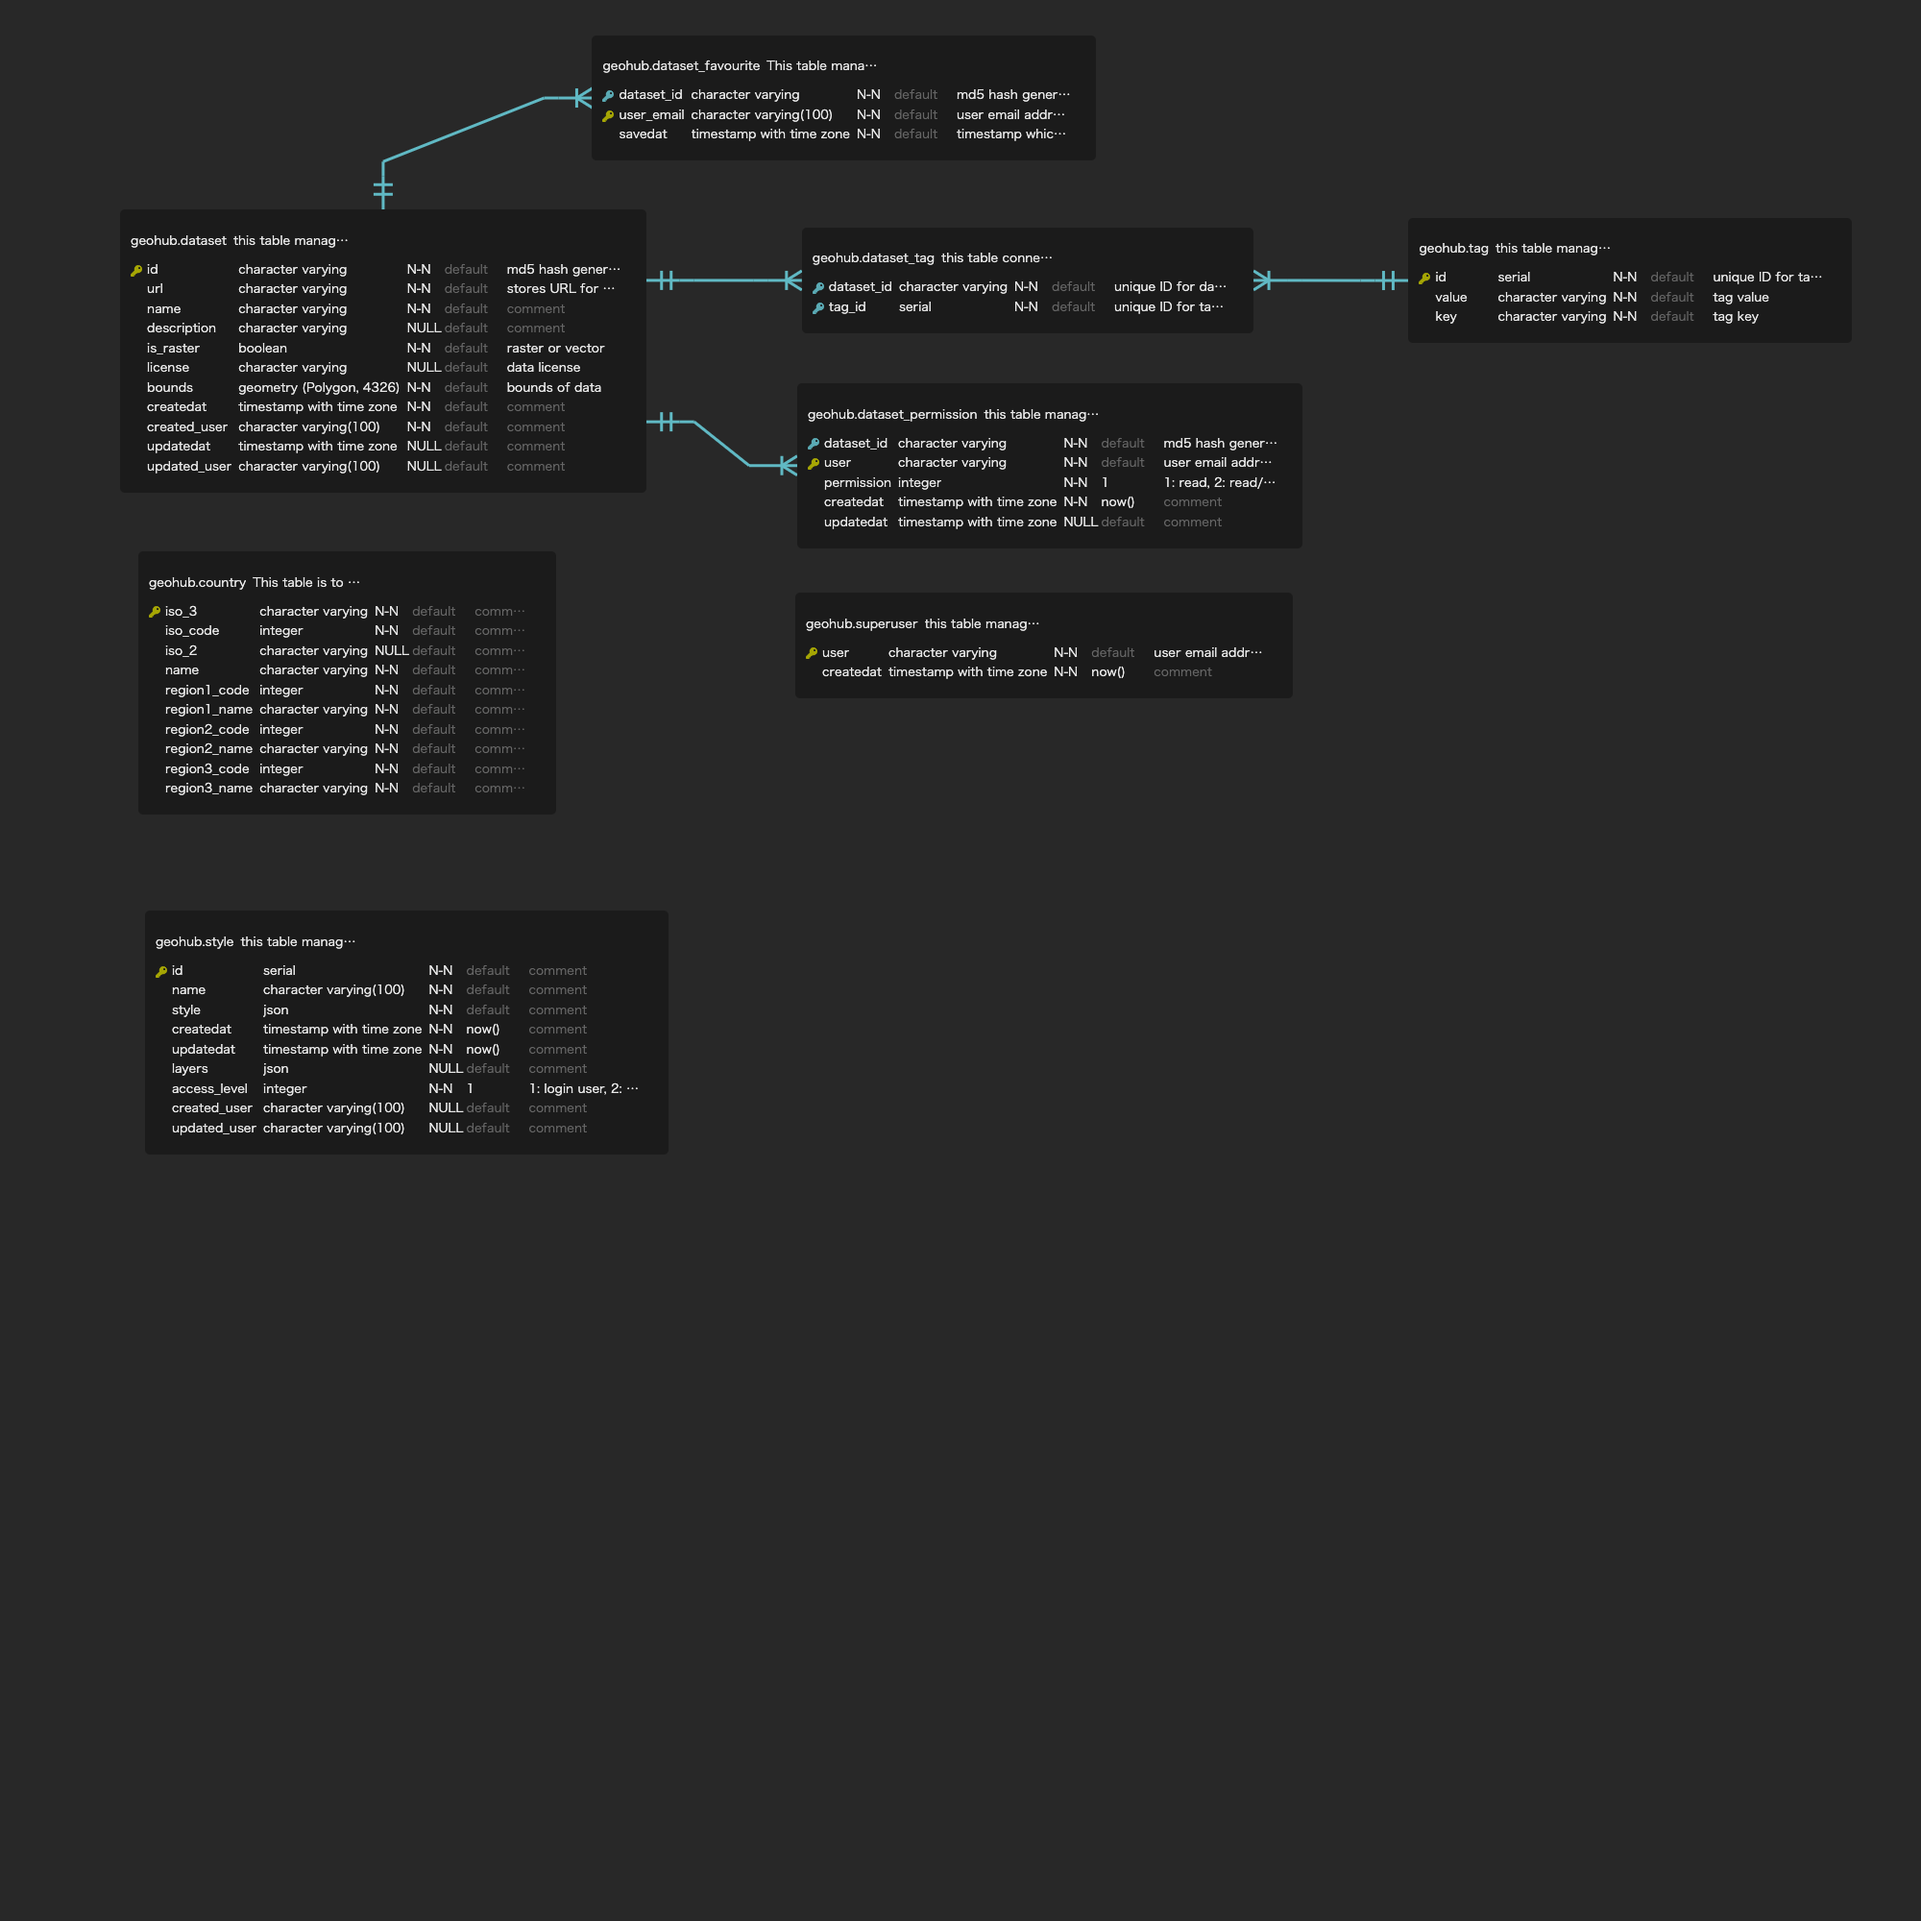
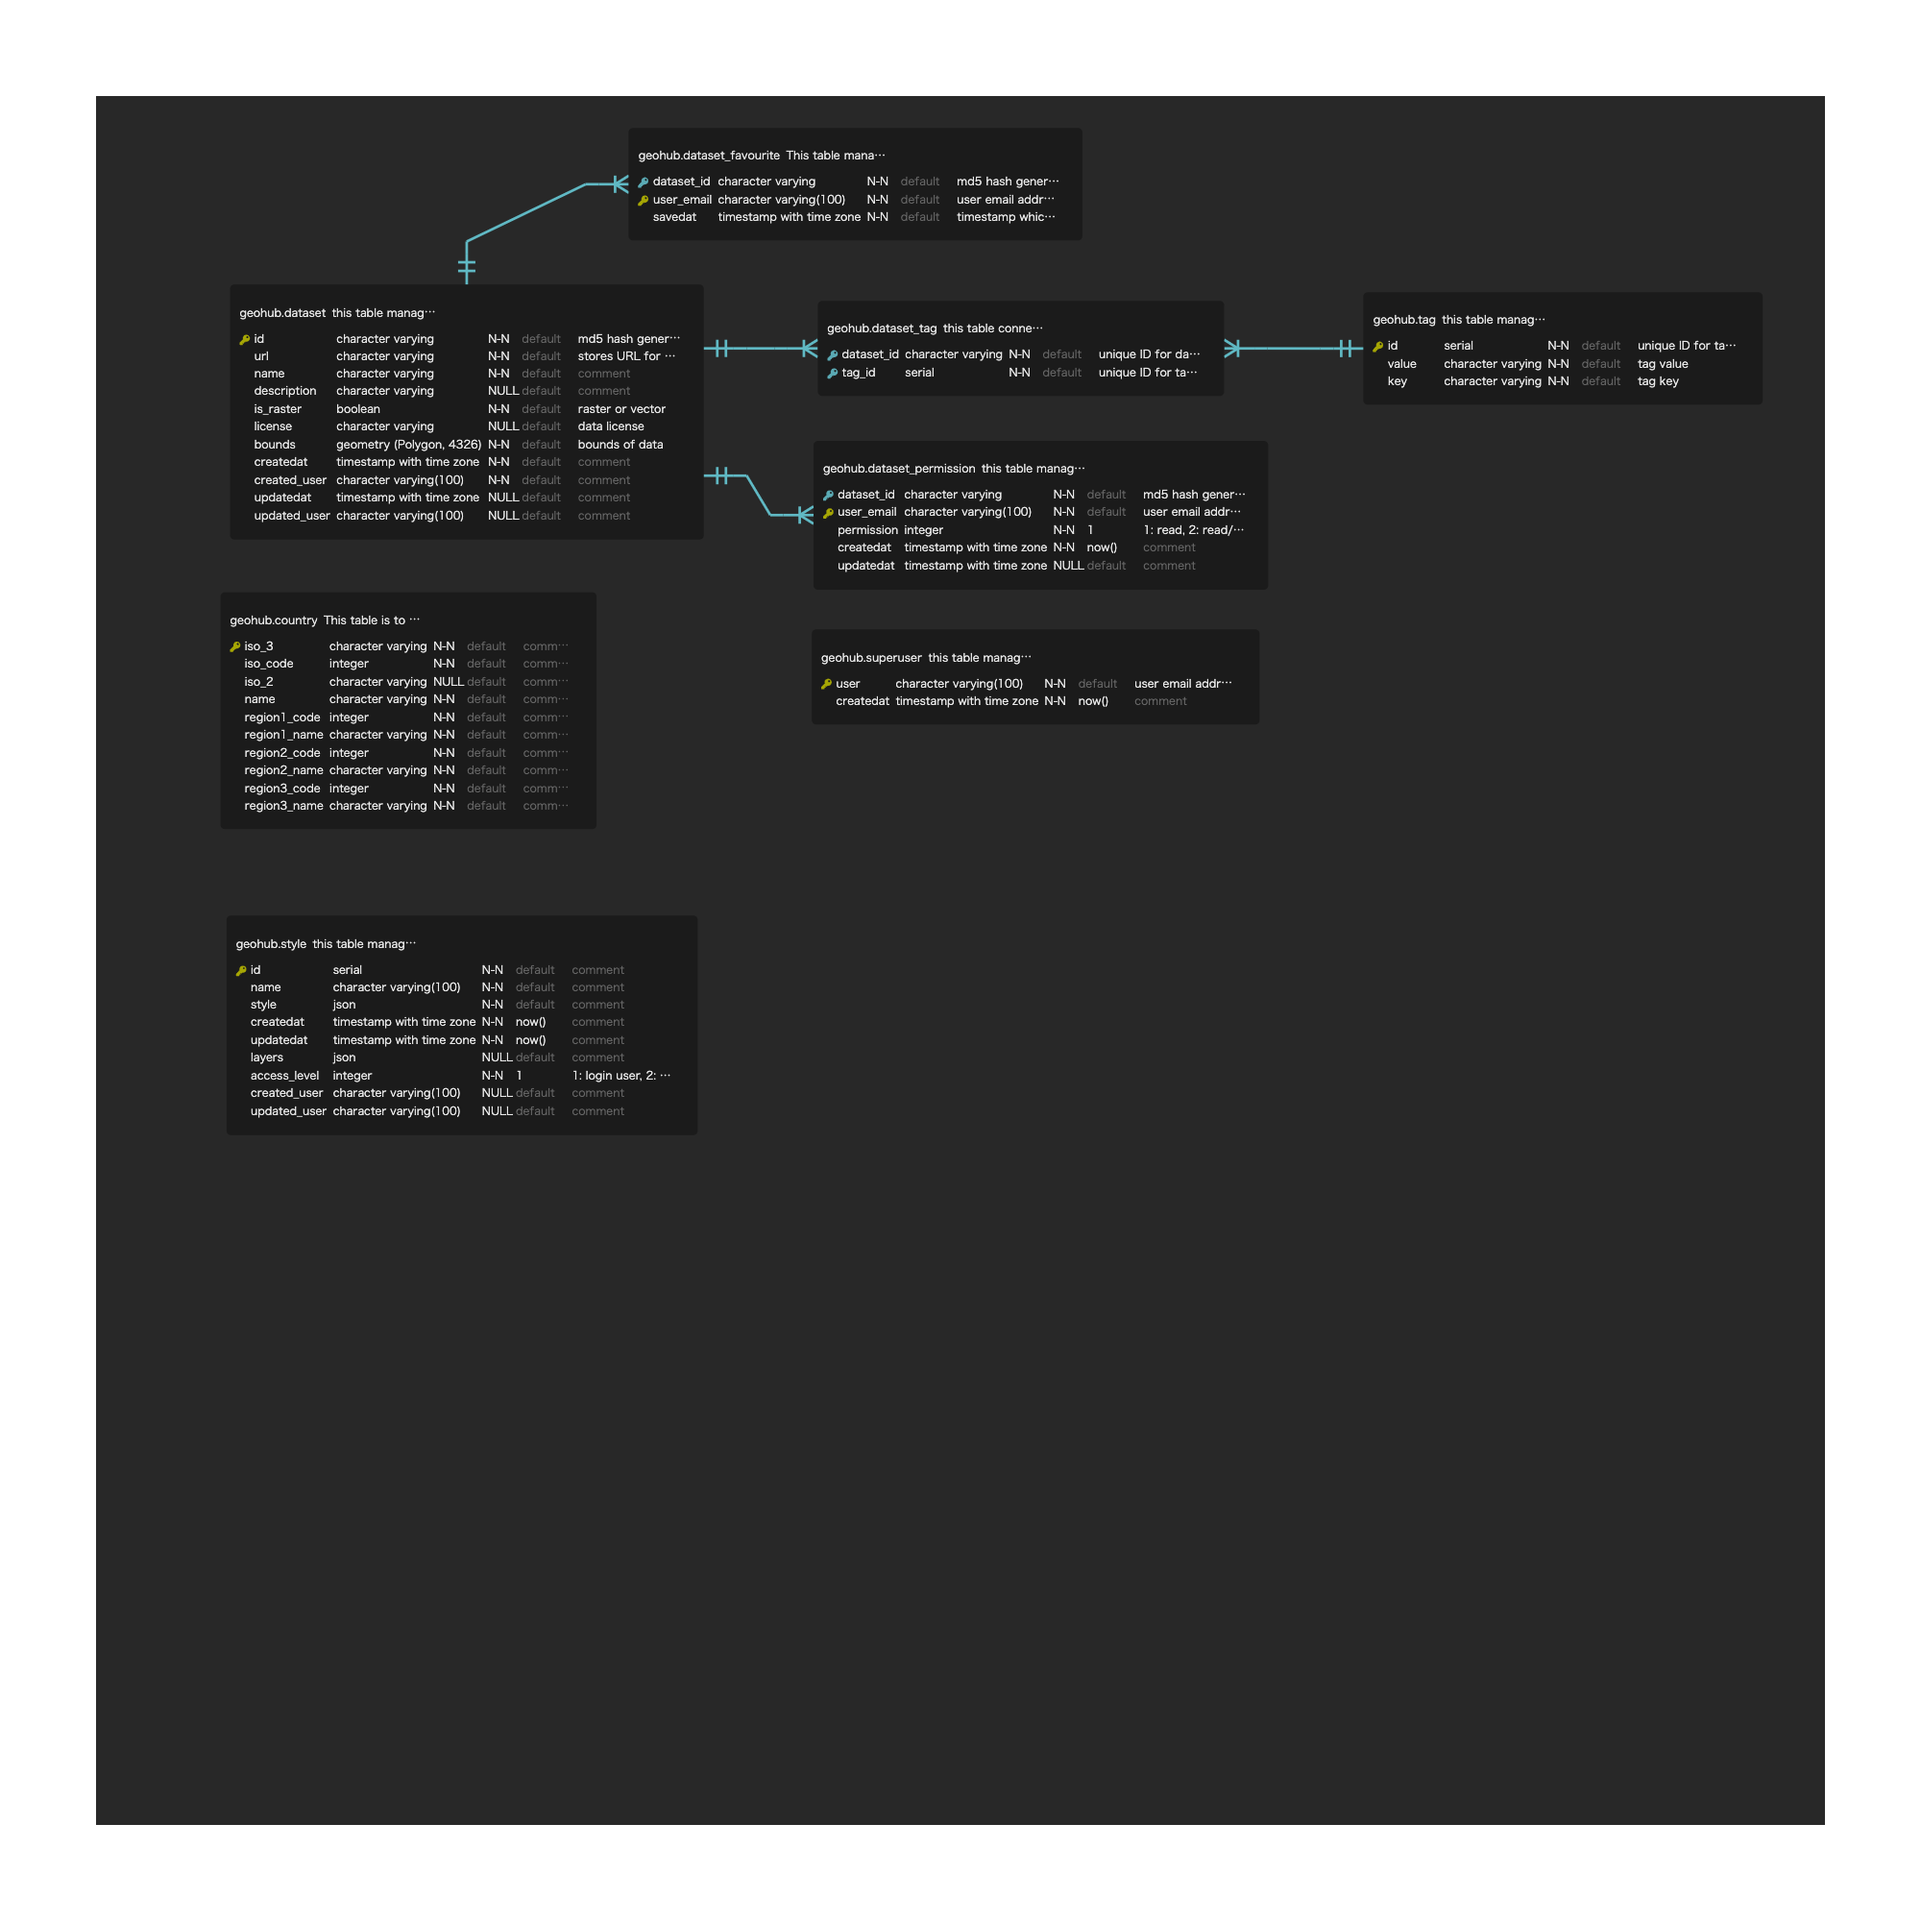
feat: add mydata=true option in /datasets api

diff --git a/sites/geohub/src/routes/api/datasets/+server.ts b/sites/geohub/src/routes/api/datasets/+server.ts
@@ -4,6 +4,7 @@ import type { DatasetFeatureCollection, Pages, StacLink, Tag } from '$lib/types'
 import { createDatasetSearchWhereExpression } from '$lib/server/helpers/createDatasetSearchWhereExpression'
 import { generateAzureBlobSasToken, pageNumber } from '$lib/server/helpers'
 import DatabaseManager from '$lib/server/DatabaseManager'
+import { Permission } from '$lib/constants'
 
 /**
  * Datasets search API
@@ -98,6 +99,15 @@ export const GET: RequestHandler = async ({ url, locals }) => {
       no_stars as (
         SELECT dataset_id, count(*) as no_stars FROM geohub.dataset_favourite GROUP BY dataset_id
       )
+      ${
+        user_email
+          ? `
+      ,permission as (
+        SELECT dataset_id, permission FROM geohub.dataset_permission 
+        WHERE user_email='${user_email}'
+      )`
+          : ''
+      }
       SELECT row_to_json(featurecollection) AS geojson 
       FROM (
         SELECT
@@ -124,6 +134,11 @@ export const GET: RequestHandler = async ({ url, locals }) => {
             CASE WHEN z.no_stars is not null THEN z.no_stars ELSE 0 END as no_stars,
             ${
               user_email
+                ? `CASE WHEN p.permission is not null THEN p.permission ELSE ${Permission.READ} END`
+                : `${Permission.READ}`
+            } as permission,
+            ${
+              user_email
                 ? `
               CASE
                 WHEN (
@@ -142,6 +157,14 @@ export const GET: RequestHandler = async ({ url, locals }) => {
           ON x.id = y.id
           LEFT JOIN no_stars z
           ON x.id = z.dataset_id
+          ${
+            user_email
+              ? `
+          LEFT JOIN permission p
+          ON x.id = p.dataset_id
+          `
+              : ''
+          }
         ${whereExpressesion.sql}
         ORDER BY
           ${sortByColumn} ${SortOrder} NULLS ${SortOrder === 'asc' ? 'FIRST' : 'LAST'}

diff --git a/sites/geohub/src/lib/server/helpers/getDatasetById.ts b/sites/geohub/src/lib/server/helpers/getDatasetById.ts
@@ -2,6 +2,7 @@ import { generateAzureBlobSasToken } from '$lib/server/helpers'
 import type { DatasetFeature, Tag } from '$lib/types'
 import DatabaseManager from '$lib/server/DatabaseManager'
 import type { PoolClient } from 'pg'
+import { Permission } from '$lib/constants'
 
 export const getDatasetById = async (client: PoolClient, id: string, user_email?: string) => {
   const sql = {
@@ -27,6 +28,15 @@ export const getDatasetById = async (client: PoolClient, id: string, user_email?
         no_stars as (
           SELECT dataset_id, count(*) as no_stars FROM geohub.dataset_favourite GROUP BY dataset_id
         )
+        ${
+          user_email
+            ? `
+        ,permission as (
+          SELECT dataset_id, permission FROM geohub.dataset_permission 
+          WHERE user_email='${user_email}'
+        )`
+            : ''
+        }
         SELECT row_to_json(feature) AS feature 
         FROM (
             SELECT
@@ -49,6 +59,11 @@ export const getDatasetById = async (client: PoolClient, id: string, user_email?
               CASE WHEN z.no_stars is not null THEN z.no_stars ELSE 0 END as no_stars,
               ${
                 user_email
+                  ? `CASE WHEN p.permission is not null THEN p.permission ELSE ${Permission.READ} END`
+                  : `${Permission.READ}`
+              } as permission,
+              ${
+                user_email
                   ? `
                 CASE
                   WHEN (
@@ -67,6 +82,7 @@ export const getDatasetById = async (client: PoolClient, id: string, user_email?
             ON x.id = y.id
             LEFT JOIN no_stars z
             ON x.id = z.dataset_id
+            ${user_email ? `LEFT JOIN permission p ON x.id = p.dataset_id` : ''}
             WHERE x.id=$1
           ) AS feature
         `,

diff --git a/sites/geohub/src/routes/data/+page.svelte b/sites/geohub/src/routes/data/+page.svelte
@@ -111,7 +111,7 @@
   }
 </script>
 
-<p class="title align-center">Datasets</p>
+<p class="title align-center">My datasets</p>
 
 <div class="datasets-header tile is-ancestor">
   <div class="tile is-parent">
@@ -192,16 +192,20 @@
         <div class="column is-10">
           <DataCardInfo bind:feature />
         </div>
-        <div class="column is-2">
+        <div class="column is-1">
           <button
-            class="button is-primary"
+            class="button is-primary my-1"
             on:click={() => {
               gotoEditMetadataPage(feature.properties.url)
             }}>
             <span class="icon">
               <i class="fa-solid fa-pen-to-square" />
             </span>
-            <span>metadata</span>
+          </button>
+          <button class="button is-link my-1">
+            <span class="icon">
+              <i class="fa-solid fa-trash" />
+            </span>
           </button>
         </div>
       </div>
@@ -219,6 +223,25 @@
     type="info"
     showCloseButton={false}>No datasets found</Notification>
 {/if}
+
+<hr />
+
+<p class="title align-center mb-4">Processing datasets</p>
+
+<Notification
+  type="info"
+  showCloseButton={false}>
+  All datasets have already been processed and published! Do you want to upload new dataset? Click the below button!
+  <br />
+  <button
+    class="button is-primary upload-button my-2"
+    on:click={gotoUploadPage}>
+    <span class="icon">
+      <i class="fa-solid fa-cloud-arrow-up" />
+    </span>
+    <span>Data upload</span>
+  </button>
+</Notification>
 
 <style lang="scss">
   .align-center {

diff --git a/sites/geohub/src/lib/server/helpers/createDatasetSearchWhereExpression.ts b/sites/geohub/src/lib/server/helpers/createDatasetSearchWhereExpression.ts
@@ -1,4 +1,4 @@
-import { DatasetSearchQueryParams } from '$lib/constants'
+import { DatasetSearchQueryParams, Permission } from '$lib/constants'
 
 export const createDatasetSearchWhereExpression = async (url: URL, tableAlias: string, user_email?: string) => {
   let query = url.searchParams.get('query')
@@ -41,6 +41,9 @@ export const createDatasetSearchWhereExpression = async (url: URL, tableAlias: s
     values.push(query)
   }
 
+  const mydata = url.searchParams.get('mydata')
+  const mydataonly = mydata && mydata === 'true' ? true : false
+
   const sql = `
     WHERE 
     NOT ST_IsEmpty(${tableAlias}.bounds)
@@ -62,6 +65,12 @@ export const createDatasetSearchWhereExpression = async (url: URL, tableAlias: s
       SELECT dataset_id FROM geohub.dataset_favourite WHERE dataset_id=${tableAlias}.id AND user_email='${user_email}'
     )
     `
+        : ''
+    }
+    ${
+      user_email && mydataonly
+        ? `
+    AND EXISTS (SELECT dataset_id FROM geohub.dataset_permission WHERE dataset_id = ${tableAlias}.id AND user_email = '${user_email}' AND permission = ${Permission.OWNER} )`
         : ''
     }
     `

diff --git a/sites/geohub/src/routes/data/publish/+page.server.ts b/sites/geohub/src/routes/data/publish/+page.server.ts
@@ -10,8 +10,6 @@ import {
 } from '$lib/server/helpers'
 import { removeSasTokenFromDatasetUrl } from '$lib/helper'
 import { env } from '$env/dynamic/private'
-import DatasetManager from '$lib/server/DatasetManager'
-import DatabaseManager from '$lib/server/DatabaseManager'
 import { Permission } from '$lib/constants'
 
 /**
@@ -94,19 +92,9 @@ export const load: PageServerLoad = async ({ locals, url }) => {
       },
     }
 
-    const dsm = new DatasetManager(feature)
-
     // check write permission of login user for datasets
-    const dbm = new DatabaseManager()
-    try {
-      const client = await dbm.start()
-      const user_email = session?.user.email
-      const permission = await dsm.getPermission(client, user_email)
-      if (!(permission && permission > Permission.READ)) {
-        throw redirect(301, '/data')
-      }
-    } finally {
-      dbm.end()
+    if (!(feature.properties.permission > Permission.READ)) {
+      throw redirect(301, '/data')
     }
 
     return {

diff --git a/sites/geohub/src/lib/server/DatasetManager.ts b/sites/geohub/src/lib/server/DatasetManager.ts
@@ -33,7 +33,7 @@ class DatasetManager {
 
   public async getPermission(client: PoolClient, user_email: string) {
     const query = {
-      text: `SELECT permission FROM geohub.dataset_permission WHERE dataset_id = $1 AND user = $2`,
+      text: `SELECT permission FROM geohub.dataset_permission WHERE dataset_id = $1 AND user_email = $2`,
       values: [this.dataset.properties.id, user_email],
     }
     const res = await client.query(query)
@@ -132,7 +132,7 @@ class DatasetManager {
       query = {
         text: `
         INSERT INTO geohub.dataset_permission(
-          dataset_id, "user", permission)
+          dataset_id, user_email, permission)
           VALUES ($1, $2, $3)
         `,
         values: [this.dataset.properties.id, this.dataset.properties.updated_user, Permission.OWNER.toString()],

diff --git a/sites/geohub/src/routes/api/datasets/[id]/+server.ts b/sites/geohub/src/routes/api/datasets/[id]/+server.ts
@@ -44,15 +44,13 @@ export const DELETE: RequestHandler = async ({ params, locals }) => {
       })
     }
 
-    const dsm = new DatasetManager(dataset)
-
-    const permission = await dsm.getPermission(client, user_email)
-    if (!(permission && permission === Permission.OWNER)) {
+    if (!(dataset.properties.permission === Permission.OWNER)) {
       return new Response(JSON.stringify({ message: `You don't have permission to delete this datasets.` }), {
         status: 403,
       })
     }
 
+    const dsm = new DatasetManager(dataset)
     await dsm.delete(client, dataset.properties.id)
 
     return new Response(undefined, {

diff --git a/sites/geohub/src/styles/geohubstyle.scss b/sites/geohub/src/styles/geohubstyle.scss
@@ -4,7 +4,7 @@
 
 // 2. Set your own initial variables
 // Update blue
-$blue: #72d0eb;
+$blue: #006eb5;
 // Add pink and its invert
 $pink: #ffb3b3;
 $pink-invert: #fff;
@@ -18,7 +18,7 @@ $box-shadow: 0.2em 0.2em 3px $gray-light;
 // Use the new pink as the primary color
 $primary: #d12800;
 $primary-invert: $pink-invert;
-$link: #ffb3b3;
+$link: $blue;
 // Use the existing orange as the danger color
 // $danger: #d12800;
 // Use the new serif family

diff --git a/sites/geohub/src/routes/data/+page.server.ts b/sites/geohub/src/routes/data/+page.server.ts
@@ -22,6 +22,7 @@ export const load: PageServerLoad = async (event) => {
     offset,
     sortby,
     type: 'azure', // only azure's user data is avalable for data page
+    mydata: 'true', // only allow user owned data is available for data page
   }
   if (query) {
     params.query = query

diff --git a/sites/geohub/src/lib/types/DatasetFeature.ts b/sites/geohub/src/lib/types/DatasetFeature.ts
@@ -1,3 +1,4 @@
+import type { Permission } from '$lib/constants'
 import type { Tag } from './Tag'
 
 export interface DatasetFeature {
@@ -20,5 +21,6 @@ export interface DatasetFeature {
     tags?: Tag[]
     no_stars?: number
     is_star?: boolean
+    permission?: Permission
   }
 }

diff --git a/sites/geohub/src/lib/constants.ts b/sites/geohub/src/lib/constants.ts
@@ -202,6 +202,7 @@ export const DatasetSearchQueryParams = [
   'operator',
   'staronly',
   'queryoperator',
+  'mydata',
 ]
 
 export const tagSearchKeys = [
